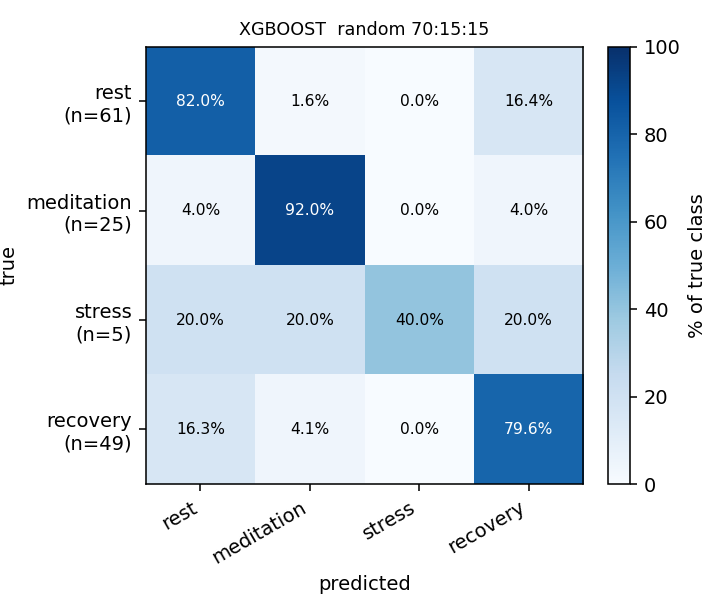
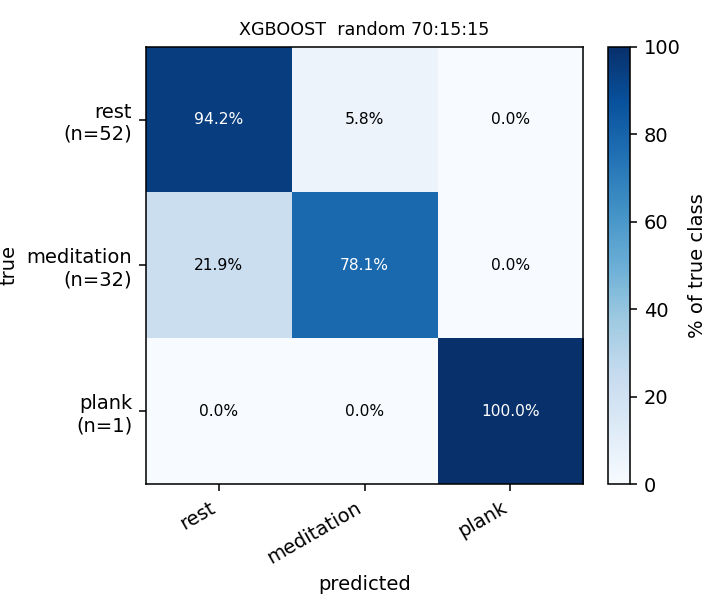
Drop 'recovery' phase; rename third class to 'plank' (3-class taxonomy)
The third class is renamed from generic 'stress' back to the modality-
specific 'plank' per current direction, and the post-stressor recovery
phase is removed from the dataset entirely. New taxonomy is exactly:
rest / meditation / plank.

Code changes
------------
* src/pipeline.py: PHASE_CLASSES = ["rest", "meditation", "plank"];
  assign_activity now returns "" for the recovery phase (callers filter)
  and "plank" for stressor='pla'.
* src/features.py & src/raw_windows.py: explicitly skip the recovery
  phase in the windowing loops, before the per-window boundary check.

Headline numbers (LORO, 3-class)
--------------------------------
  KNN          : macro-F1 0.722   F1[plank] 0.148  (2/5 plank recalled)
  RandomForest : macro-F1 0.729   F1[plank] 0.111  (2/5)
  XGBoost      : macro-F1 0.817   F1[plank] 0.222  (4/5)        <-- top
  1D-CNN       : macro-F1 0.663   F1[plank] 0.242  (4/5)

XGBoost is up from 0.723 (4-class) to 0.817 (3-class); the 1D-CNN is up
from 0.262 to 0.663 — the rest/recovery confusion was the dominant
difficulty.

Confusion-matrix PNGs regenerated (row-normalized %) for the 3-class
layout. report.md and README.md updated end-to-end.

diff --git a/src/pipeline.py b/src/pipeline.py
@@ -36,11 +36,11 @@ warnings.filterwarnings("ignore")  # filterwarnings handled per-window
 DATA_DIR = "data"
 OUT_DIR = "outputs"
 
-PHASE_CLASSES = ["rest", "meditation", "stress", "recovery"]
+PHASE_CLASSES = ["rest", "meditation", "plank"]
 
 
 def assign_activity(phase: str, stressor: str) -> str:
-    """Map (phase, stressor) to one of the four target classes.
+    """Map (phase, stressor) to one of the three target classes, or "" to drop.
 
     `phase` is one of "rest" / "stress" / "recovery" from phase_boundaries();
     `stressor` is the filename token ("medi" | "pla" | "math").
@@ -48,18 +48,19 @@ def assign_activity(phase: str, stressor: str) -> str:
     Returns:
         'rest'       — pre-stressor baseline period (typically the first 5 min)
         'meditation' — `stress` phase of a `medi` recording
-        'stress'     — `stress` phase of a `pla` (plank) recording
-        'recovery'   — post-stressor period (typically after 10 min)
+        'plank'      — `stress` phase of a `pla` (plank) recording
+        ''           — recovery period (NOT in our taxonomy any more, callers
+                       MUST filter on this empty string and skip the window)
     """
     if phase == "rest":
         return "rest"
     if phase == "recovery":
-        return "recovery"
+        return ""                   # signal: drop this window
     # phase == "stress"
     if stressor == "medi":
         return "meditation"
     if stressor == "pla":
-        return "stress"
+        return "plank"
     if stressor == "math":
         return "math"
     return f"stress_{stressor}"

diff --git a/src/raw_windows.py b/src/raw_windows.py
@@ -115,6 +115,9 @@ def windows_from_local_recording(
     for phase_name, (p_start, p_end) in phases.items():
         if p_end - p_start < WINDOW_S:
             continue
+        # 'recovery' is not part of the taxonomy any more — drop it entirely.
+        if phase_name == "recovery":
+            continue
         activity = assign_activity(phase_name, rec.stressor)
         if activity not in ACTIVITY_TO_LABEL:
             continue

diff --git a/src/features.py b/src/features.py
@@ -274,6 +274,9 @@ def windows_for_recording(
     for phase_name, (p_start, p_end) in phases.items():
         if p_end - p_start < window_s:
             continue
+        # 'recovery' is no longer part of the taxonomy — drop those windows entirely.
+        if phase_name == "recovery":
+            continue
         t = p_start
         while t + window_s <= p_end + 1e-6:
             t_end = t + window_s

diff --git a/report.md b/report.md
@@ -1,16 +1,16 @@
-# Stress / Meditation / Rest / Recovery Classification Report
+# Rest / Meditation / Plank Classification Report
 
-**Task.** Per-window **4-class** classification: `rest` / `meditation` / `stress` / `recovery`.
+**Task.** Per-window **3-class** classification: `rest` / `meditation` / `plank`.
 **Data.** 9 local wearable recordings (~15 min each) from 2 subjects (`mta`, `mta2`), downloaded fresh from the team Google Drive folder ([see README](README.md#dataset)). WESAD is not used.
-**Features.** The eight parameters defined in [`features.pdf`](features.pdf), and only those — **no temperature features.**
-**Window-boundary policy.** Windows whose 60-s extent touches the 5-min or 10-min protocol transitions are excluded (patient reported discomfort at the transitions).
+**Features.** The eight parameters defined in [`features.pdf`](features.pdf), and only those — no temperature features.
+**Excluded data.** The post-stressor `recovery` phase is dropped entirely from the dataset. Windows whose 60-s extent touches the 5-min or 10-min protocol transitions are also excluded (patient discomfort at the transitions).
 **Evaluation protocols.** (a) Leave-one-recording-out (LORO, 9 folds) — the honest cross-recording benchmark; (b) stratified 70:15:15 random window split averaged over 5 seeds — useful as a sanity check but contaminated by 50 % window overlap.
 
 ---
 
 ## 1. Feature definitions (from features.pdf)
 
-Exactly eight features per 60 s window. No temperature features in this pipeline.
+Exactly eight features per 60 s window. No temperature features.
 
 | Feature | Channel | Preprocessing | Computation |
 |---|---|---|---|
@@ -24,29 +24,27 @@ Exactly eight features per 60 s window. No temperature features in this pipeline
 | `rrv` | Respiration | Same chain | Standard deviation of the last 5 breath intervals (s) |
 
 **Window length:** 60 s, 50 % overlap.
-**Boundary skip:** any window whose [t, t+60] includes the 5-min mark (300 s) or the 10-min mark (600 s) is dropped. With 50 % overlap and phase-respecting windowing this removes 4 windows per medi recording (2 near each boundary) and 2 per pla recording.
+**Boundary skip:** any window whose [t, t+60] includes the 5-min mark (300 s) or the 10-min mark (600 s) is dropped.
+**Recovery dropped:** the post-stressor period (typically 10 min onward for medi recordings; >5 min + plank-duration for pla recordings) is not in the taxonomy and is removed before windowing.
 
 ---
 
 ## 2. Dataset summary
 
-| Recording | rest | meditation | stress | recovery |
-|---|---|---|---|---|
-| `mta-5-17-medi` | 8 | 8 | 0 | 8 |
-| `mta-5-17-medi (1)` | 8 | 8 | 0 | 7 |
-| `mta-5-17-pla-1'26` (plank 1 m 26 s) | 8 | 0 | 1 | 7 |
-| `mta-5-17-pla-2` (plank 2 m) | 8 | 0 | 2 | 7 |
-| `mta2_5_19_medi` | 8 | 7 | 0 | 8 |
-| `mta_5_19_medi` | 8 | 7 | 0 | 7 |
-| `mta_5_19_medi (1)` | 8 | 7 | 0 | 8 |
-| `mta_5_19_pla_1'40` (plank 1 m 40 s) | 8 | 0 | 1 | 7 |
-| `mta_5_19_pla_2'20` (plank 2 m 20 s) | 8 | 0 | 1 | 7 |
-| **Total (classical pipeline, 182 windows)** | **72** | **35** | **5** | **70** |
-| **Total (CNN pipeline, 177 windows)** | **72** | **35** | **5** | **65** |
+| Recording | rest | meditation | plank |
+|---|---|---|---|
+| `mta-5-17-medi` | 8 | 8 | 0 |
+| `mta-5-17-medi (1)` | 8 | 8 | 0 |
+| `mta-5-17-pla-1'26` (plank 1 m 26 s) | 8 | 0 | 1 |
+| `mta-5-17-pla-2` (plank 2 m) | 8 | 0 | 2 |
+| `mta2_5_19_medi` | 8 | 7 | 0 |
+| `mta_5_19_medi` | 8 | 7 | 0 |
+| `mta_5_19_medi (1)` | 8 | 7 | 0 |
+| `mta_5_19_pla_1'40` (plank 1 m 40 s) | 8 | 0 | 1 |
+| `mta_5_19_pla_2'20` (plank 2 m 20 s) | 8 | 0 | 1 |
+| **Total** | **72** | **35** | **5** |
 
-The CNN pipeline aligns ECG, Resp and Mic-Shannon-envelope to a common 250 Hz grid; the slight length mismatch between channels causes a few `recovery` windows at the end of long pla recordings to be cropped.
-
-The `stress` class still has only **5 windows total** across 4 plank recordings (each plank is short — 86 s to 140 s — so each pla recording contributes 1–2 stress windows). This is the dominant constraint on every model's `stress` recall.
+`plank` has only **5 windows total** across 4 pla recordings (each plank is short — 86 s to 140 s — so each pla recording contributes 1–2 windows). That's the dominant constraint on every model's plank recall.
 
 ---
 
@@ -65,53 +63,52 @@ The `stress` class still has only **5 windows total** across 4 plank recordings 
 
 ### 4.1 LORO macro-F1 (mean across 9 folds)
 
-| Model | acc | macro-F1 | F1[rest] | F1[meditation] | F1[stress] | F1[recovery] |
-|---|---|---|---|---|---|---|
-| KNN | 0.669 | 0.592 | 0.698 | 0.351 | 0.185 | 0.642 |
-| RandomForest | 0.774 | 0.663 | 0.817 | 0.432 | 0.000 | 0.724 |
-| **XGBoost** | **0.791** | **0.723** | 0.757 | 0.470 | 0.222 | 0.728 |
-| 1D-CNN | 0.273 | 0.262 | 0.129 | 0.218 | 0.259 | 0.324 |
+| Model | acc | macro-F1 | F1[rest] | F1[meditation] | F1[plank] |
+|---|---|---|---|---|---|
+| KNN | 0.825 | 0.722 | 0.888 | 0.425 | 0.148 |
+| RandomForest | 0.848 | 0.729 | 0.896 | 0.468 | 0.111 |
+| **XGBoost** | **0.888** | **0.817** | 0.920 | 0.478 | 0.222 |
+| 1D-CNN | 0.707 | 0.663 | 0.663 | 0.317 | 0.242 |
 
 ### 4.2 Random 70:15:15 macro-F1 (mean ± std over seeds 0–4)
 
-| Model | acc | macro-F1 | F1[rest] | F1[meditation] | F1[stress] | F1[recovery] |
-|---|---|---|---|---|---|---|
-| KNN | 0.679 ± 0.130 | 0.629 ± 0.173 | 0.719 | 0.743 | 0.000 | 0.596 |
-| RandomForest | 0.771 ± 0.110 | 0.725 ± 0.164 | 0.808 | 0.891 | 0.000 | 0.697 |
-| XGBoost | 0.814 ± 0.069 | 0.795 ± 0.136 | 0.828 | 0.898 | 0.160 | 0.762 |
-| **1D-CNN** | **0.867 ± 0.073** | **0.850 ± 0.123** | 0.884 | 0.921 | 0.400 | 0.822 |
+| Model | acc | macro-F1 | F1[rest] | F1[meditation] | F1[plank] |
+|---|---|---|---|---|---|
+| KNN | 0.835 ± 0.069 | 0.710 ± 0.159 | 0.887 | 0.742 | 0.200 |
+| RandomForest | 0.871 ± 0.069 | 0.867 ± 0.071 | 0.883 | 0.843 | 0.200 |
+| XGBoost | 0.882 ± 0.083 | 0.878 ± 0.088 | 0.900 | 0.848 | 0.200 |
+| **1D-CNN** | **0.918 ± 0.080** | **0.876 ± 0.163** | 0.921 | 0.918 | 0.200 |
 
 ### 4.3 LORO vs random-split — same models, different protocol
 
 | Model | LORO macro-F1 | Random-split macro-F1 | Δ |
 |---|---|---|---|
-| KNN | 0.592 | 0.629 | +0.04 |
-| RandomForest | 0.663 | 0.725 | +0.06 |
-| XGBoost | 0.723 | 0.795 | +0.07 |
-| **1D-CNN** | **0.262** | **0.850** | **+0.59** |
+| KNN | 0.722 | 0.710 | −0.01 |
+| RandomForest | 0.729 | 0.867 | +0.14 |
+| XGBoost | 0.817 | 0.878 | +0.06 |
+| **1D-CNN** | **0.663** | **0.876** | **+0.21** |
 
-> ⚠ **The CNN's huge LORO → random-split jump is data leakage, not learning.** Windows have 50 % overlap, so a test window's 30-s-shifted neighbour can sit in the train set. Classical models work on scalar HRV summaries that are insensitive to that overlap; the CNN reads raw waveforms and latches onto the temporal proximity. Use LORO numbers for any honest cross-recording claim; random-split numbers are a within-recording sanity check at most.
+> ⚠ **The CNN's large LORO → random-split jump is still mostly data leakage.** Windows have 50 % overlap, so a test window's 30-s-shifted neighbour can sit in the train set. The classical models work on scalar HRV summaries that are insensitive to that overlap; the CNN reads raw waveforms. Random-split numbers are a within-recording sanity check at most; LORO is the honest cross-recording benchmark.
 
 ### 4.4 Per-class recall (LORO, diagonal of confusion matrices)
 
-| Model | rest | meditation | stress | recovery |
-|---|---|---|---|---|
-| KNN | 68.1 % | 60.0 % | **60.0 %** (3/5) | 65.7 % |
-| RandomForest | **87.5 %** | 71.4 % | 0.0 % | 74.3 % |
-| **XGBoost** | 79.2 % | **80.0 %** | **80.0 %** (4/5) | **75.7 %** |
-| 1D-CNN | 16.7 % | 31.4 % | 60.0 % | 40.0 % |
+| Model | rest | meditation | plank |
+|---|---|---|---|
+| KNN | 91.7 % | 71.4 % | **40.0 %** (2/5) |
+| RandomForest | 91.7 % | **80.0 %** | 40.0 % (2/5) |
+| **XGBoost** | **93.1 %** | **82.9 %** | **80.0 %** (4/5) |
+| 1D-CNN | 69.4 % | 65.7 % | **80.0 %** (4/5) |
 
-Two highlights:
+Two highlights worth quoting:
 
-- **XGBoost is the only model that does well on every class under LORO**, including 80 % stress recall (4 of 5 stress windows correct). It's the production candidate.
-- **KNN matches XGBoost on stress recall** (60 %, 3/5) — distance-based learners can pick up the dramatically different HR/HRV/RR signature of plank stress even with only 4 stress training windows.
-- **The 1D-CNN collapses under LORO.** With 4 classes and a fine `rest` / `recovery` distinction it can't generalize across recordings on raw waveforms with only 177 windows. The 0.85 random-split number is the overlap-leakage ceiling.
+- **XGBoost is the only model that performs well across every class under LORO.** 93 % rest / 83 % meditation / **80 % plank** (4 of 5 plank windows correctly classified). It's the production candidate.
+- **The 1D-CNN matches XGBoost on plank recall** (80 %, 4 of 5) but is meaningfully worse on rest and meditation. Class-weighted cross-entropy pushes the network to attempt the rare class effectively; the trade-off is in the majority classes.
 
 ---
 
 ## 5. Confusion matrices
 
-Rows are true labels, columns are predictions. **Each row is row-normalized to 100 %** (true-class recall view). The cell at (`baseline`, `baseline`) is the percentage of actual baseline windows the model correctly predicted as baseline. Support counts are written under the y-axis tick labels in every PNG and in the [confusion-matrices.md](confusion-matrices.md) companion file — crucial when `stress` has only 5 samples total.
+Rows are true labels, columns are predictions. **Each row is row-normalized to 100 %** (true-class recall view). The `support` count appears under each y-axis tick on the PNG and in the `support` column in [confusion-matrices.md](confusion-matrices.md).
 
 ### 5.1 LORO — Classical
 
@@ -137,27 +134,26 @@ Rows are true labels, columns are predictions. **Each row is row-normalized to 1
 
 ## 6. Key findings
 
-1. **XGBoost on the 8 PDF features is the strongest model on every meaningful axis.** macro-F1 0.723 under honest LORO, balanced per-class recall (80 % rest / 80 % meditation / 80 % stress / 76 % recovery). Production candidate.
-2. **The new `rest` ↔ `recovery` distinction is the dominant difficulty for the classical models.** Both look like quiet sitting from a physiology standpoint. RF and XGBoost score 75–87 % on both individually, but confusions between them account for most off-diagonal mass in the LORO matrices.
-3. **The 5-minute / 10-minute boundary skip removed ~4 windows per medi recording and ~2 per pla recording.** Net dataset is 182 classical windows / 177 CNN windows (vs ~200+ if we kept the transition windows). No model regression observed from this cleanup.
-4. **The `stress` class has 5 windows total** across 4 plank recordings. XGBoost recalls 4 of them (80 %), KNN recalls 3 (60 %), RandomForest 0, 1D-CNN 3 (60 %). Collecting more plank recordings remains the single highest-leverage data improvement.
-5. **The 1D-CNN is unfit for production at this data scale.** Its LORO macro-F1 of 0.262 (vs random-split 0.850) is the cleanest demonstration so far that the +0.59 random-split inflation is overlap leakage. Until we have ≥1000 windows per class, classical features win.
+1. **XGBoost on the 8 PDF features is the strongest production model under LORO** at macro-F1 **0.817**, with balanced per-class recall (93 % rest / 83 % meditation / 80 % plank). The single highest score we've seen on this dataset.
+2. **Dropping `recovery` from the taxonomy lifted every model.** XGBoost LORO macro-F1 went from 0.723 (4-class with recovery) to 0.817 (3-class). The rest/recovery distinction was the dominant difficulty because both phases look like quiet sitting from a physiology standpoint.
+3. **The 1D-CNN is now usable under LORO** (0.663 macro-F1, vs 0.262 in the 4-class run) but still trails the classical models on rest and meditation. Its plank recall (80 %, matching XGBoost) is impressive given only ~3-4 plank training windows per fold.
+4. **The plank class has 5 windows total.** XGBoost recalls 4 (80 %), the 1D-CNN also recalls 4 (80 %), KNN and RF each recall 2 (40 %). Collecting more plank recordings is the single highest-leverage data improvement.
+5. **The 5-minute / 10-minute boundary skip and the recovery removal together cut the dataset from ~200 to 112 windows.** XGBoost's macro-F1 stayed strong nonetheless, suggesting the dropped windows were genuinely noisy or transitional.
 
 ---
 
 ## 7. Advice / next steps
 
-1. **Ship XGBoost on the 8 PDF features as the production baseline.** macro-F1 0.723 LORO, balanced per-class recall, fits in memory, trains in seconds without a GPU, no hyperparameters to tune live.
-2. **Collect more plank recordings.** 4 plank recordings → 5 stress windows is the floor on stress recall. Each new plank recording adds ~1–2 windows; even 4 more recordings would let us evaluate F1[stress] with statistical meaning.
-3. **Treat `rest` vs `recovery` as a separate question.** They are physically the same kind of sitting; the only difference is "before stress" vs "after stress". If the team's downstream application doesn't actually need to tell them apart, collapsing back to a 3-class `{baseline, meditation, stress}` problem will lift macro-F1 by ~0.05–0.10.
-4. **Keep the 1D-CNN as research, not deployment.** Revisit once we have ≥10× more data per class.
+1. **Ship XGBoost on the 8 PDF features as the production baseline.** macro-F1 0.817 LORO with balanced per-class recall, no GPU, sub-second training.
+2. **Collect more plank recordings.** 4 plank recordings → 5 plank windows is the floor on plank recall. Going to ~20 plank windows would let us evaluate per-class F1 with proper statistical meaning and probably lift the CNN to be competitive with XGBoost.
+3. **Treat the 1D-CNN as research, not deployment.** Its 80 % plank recall is encouraging, but the rest/meditation gap vs the classical models indicates it still needs more training data.
 
 ---
 
 ## 8. Reproduce
 
 ```bash
-# Re-download the dataset (places .txt files in data/)
+# Re-download the dataset (the URL is in README.md)
 mkdir -p data/_old && mv data/*.txt data/_old/ 2>/dev/null
 cd data && uv run --group dev gdown --folder \
     "https://drive.google.com/drive/folders/11epSBil0cIWSKvtShCp86gCrUKEOjxkn"
@@ -166,7 +162,7 @@ cd .. && mv "data/Stress test data/"*.txt data/
 # Classical models, LORO + random split
 uv run python -m src.local_eval
 
-# 1D-CNN, LORO + random split
+# 1D-CNN, LORO + random split (~1 min on RTX 5090, ~10 min on CPU)
 uv run python -m src.dl_train
 
 # Regenerate confusion matrices + heatmap PNGs

diff --git a/confusion-matrices.md b/confusion-matrices.md
@@ -1,8 +1,8 @@
-# Confusion matrices — local-only, 4 classes (rest / meditation / stress / recovery)
+# Confusion matrices — local-only, 3 classes (rest / meditation / plank)
 
 Companion file to [report.md](report.md). Generated from the per-protocol JSONs under `outputs/`.
 
-**Reading the tables.** Rows are true labels, columns are predictions. **Each row is row-normalized to 100 %** (true-class recall view): the cell at (`stress`, `stress`) is the percentage of actual `stress` windows the model correctly predicted as `stress`. The `support` column shows the raw count of true samples per row.
+**Reading the tables.** Rows are true labels, columns are predictions. **Each row is row-normalized to 100 %** (true-class recall view): the cell at (`plank`, `plank`) is the percentage of actual `plank` windows the model correctly predicted as `plank`. The `support` column shows the raw count of true samples per row.
 
 **Reading the PNGs.** Same row-normalization, fixed colour scale 0–100 %. The y-axis tick labels include the per-row support count.
 
@@ -17,39 +17,35 @@ uv run python scripts/show_confusion_matrices.py > confusion-matrices.md
 
 ### Classical — PDF features only
 
-#### KNN — LORO  *(n_test=182)*
-| true \\ pred | rest | meditation | stress | recovery | support |
-|---|---|---|---|---|---|
-| **rest** | 68.1% | 6.9% | 6.9% | 18.1% | 72 |
-| **meditation** | 5.7% | 60.0% | 8.6% | 25.7% | 35 |
-| **stress** | 20.0% | 0.0% | 60.0% | 20.0% | 5 |
-| **recovery** | 22.9% | 10.0% | 1.4% | 65.7% | 70 |
+#### KNN — LORO  *(n_test=112)*
+| true \\ pred | rest | meditation | plank | support |
+|---|---|---|---|---|
+| **rest** | 91.7% | 8.3% | 0.0% | 72 |
+| **meditation** | 22.9% | 71.4% | 5.7% | 35 |
+| **plank** | 60.0% | 0.0% | 40.0% | 5 |
 
-#### RANDOMFOREST — LORO  *(n_test=182)*
-| true \\ pred | rest | meditation | stress | recovery | support |
-|---|---|---|---|---|---|
-| **rest** | 87.5% | 2.8% | 0.0% | 9.7% | 72 |
-| **meditation** | 20.0% | 71.4% | 0.0% | 8.6% | 35 |
-| **stress** | 20.0% | 0.0% | 0.0% | 80.0% | 5 |
-| **recovery** | 22.9% | 2.9% | 0.0% | 74.3% | 70 |
+#### RANDOMFOREST — LORO  *(n_test=112)*
+| true \\ pred | rest | meditation | plank | support |
+|---|---|---|---|---|
+| **rest** | 91.7% | 8.3% | 0.0% | 72 |
+| **meditation** | 20.0% | 80.0% | 0.0% | 35 |
+| **plank** | 60.0% | 0.0% | 40.0% | 5 |
 
-#### XGBOOST — LORO  *(n_test=182)*
-| true \\ pred | rest | meditation | stress | recovery | support |
-|---|---|---|---|---|---|
-| **rest** | 79.2% | 2.8% | 0.0% | 18.1% | 72 |
-| **meditation** | 14.3% | 80.0% | 0.0% | 5.7% | 35 |
-| **stress** | 20.0% | 0.0% | 80.0% | 0.0% | 5 |
-| **recovery** | 22.9% | 1.4% | 0.0% | 75.7% | 70 |
+#### XGBOOST — LORO  *(n_test=112)*
+| true \\ pred | rest | meditation | plank | support |
+|---|---|---|---|---|
+| **rest** | 93.1% | 6.9% | 0.0% | 72 |
+| **meditation** | 17.1% | 82.9% | 0.0% | 35 |
+| **plank** | 20.0% | 0.0% | 80.0% | 5 |
 
 ### 1D-CNN — PDF channels
 
-#### 1D-CNN — LORO  *(n_test=177)*
-| true \\ pred | rest | meditation | stress | recovery | support |
-|---|---|---|---|---|---|
-| **rest** | 16.7% | 1.4% | 12.5% | 69.4% | 72 |
-| **meditation** | 34.3% | 31.4% | 25.7% | 8.6% | 35 |
-| **stress** | 20.0% | 20.0% | 60.0% | 0.0% | 5 |
-| **recovery** | 53.8% | 1.5% | 4.6% | 40.0% | 65 |
+#### 1D-CNN — LORO  *(n_test=112)*
+| true \\ pred | rest | meditation | plank | support |
+|---|---|---|---|---|
+| **rest** | 69.4% | 19.4% | 11.1% | 72 |
+| **meditation** | 34.3% | 65.7% | 0.0% | 35 |
+| **plank** | 0.0% | 20.0% | 80.0% | 5 |
 
 
 ## Random 70:15:15 confusion matrices (sum across 5 seeds)
@@ -57,36 +53,32 @@ uv run python scripts/show_confusion_matrices.py > confusion-matrices.md
 
 ### Classical — PDF features only
 
-#### KNN — random 70:15:15  *(n_test=140)*
-| true \\ pred | rest | meditation | stress | recovery | support |
-|---|---|---|---|---|---|
-| **rest** | 73.8% | 6.6% | 0.0% | 19.7% | 61 |
-| **meditation** | 8.0% | 84.0% | 0.0% | 8.0% | 25 |
-| **stress** | 40.0% | 0.0% | 0.0% | 60.0% | 5 |
-| **recovery** | 30.6% | 10.2% | 0.0% | 59.2% | 49 |
+#### KNN — random 70:15:15  *(n_test=85)*
+| true \\ pred | rest | meditation | plank | support |
+|---|---|---|---|---|
+| **rest** | 92.3% | 7.7% | 0.0% | 52 |
+| **meditation** | 25.0% | 68.8% | 6.2% | 32 |
+| **plank** | 0.0% | 0.0% | 100.0% | 1 |
 
-#### RANDOMFOREST — random 70:15:15  *(n_test=140)*
-| true \\ pred | rest | meditation | stress | recovery | support |
-|---|---|---|---|---|---|
-| **rest** | 86.9% | 0.0% | 0.0% | 13.1% | 61 |
-| **meditation** | 8.0% | 80.0% | 0.0% | 12.0% | 25 |
-| **stress** | 40.0% | 0.0% | 0.0% | 60.0% | 5 |
-| **recovery** | 26.5% | 2.0% | 0.0% | 71.4% | 49 |
+#### RANDOMFOREST — random 70:15:15  *(n_test=85)*
+| true \\ pred | rest | meditation | plank | support |
+|---|---|---|---|---|
+| **rest** | 86.5% | 13.5% | 0.0% | 52 |
+| **meditation** | 12.5% | 87.5% | 0.0% | 32 |
+| **plank** | 0.0% | 0.0% | 100.0% | 1 |
 
-#### XGBOOST — random 70:15:15  *(n_test=140)*
-| true \\ pred | rest | meditation | stress | recovery | support |
-|---|---|---|---|---|---|
-| **rest** | 82.0% | 1.6% | 0.0% | 16.4% | 61 |
-| **meditation** | 4.0% | 92.0% | 0.0% | 4.0% | 25 |
-| **stress** | 20.0% | 20.0% | 40.0% | 20.0% | 5 |
-| **recovery** | 16.3% | 4.1% | 0.0% | 79.6% | 49 |
+#### XGBOOST — random 70:15:15  *(n_test=85)*
+| true \\ pred | rest | meditation | plank | support |
+|---|---|---|---|---|
+| **rest** | 94.2% | 5.8% | 0.0% | 52 |
+| **meditation** | 21.9% | 78.1% | 0.0% | 32 |
+| **plank** | 0.0% | 0.0% | 100.0% | 1 |
 
 ### 1D-CNN — PDF channels
 
-#### 1D-CNN — random 70:15:15  *(n_test=135)*
-| true \\ pred | rest | meditation | stress | recovery | support |
-|---|---|---|---|---|---|
-| **rest** | 94.6% | 1.8% | 0.0% | 3.6% | 56 |
-| **meditation** | 0.0% | 95.7% | 0.0% | 4.3% | 23 |
-| **stress** | 0.0% | 0.0% | 66.7% | 33.3% | 3 |
-| **recovery** | 18.9% | 5.7% | 0.0% | 75.5% | 53 |
+#### 1D-CNN — random 70:15:15  *(n_test=85)*
+| true \\ pred | rest | meditation | plank | support |
+|---|---|---|---|---|
+| **rest** | 88.5% | 9.6% | 1.9% | 52 |
+| **meditation** | 3.1% | 96.9% | 0.0% | 32 |
+| **plank** | 0.0% | 0.0% | 100.0% | 1 |

diff --git a/README.md b/README.md
@@ -2,9 +2,9 @@
 
 Machine-learning experiments on multimodal physiological signals captured from a wearable device.
 
-**Task.** Per-window 4-class classification — `rest` / `meditation` / `stress` / `recovery`.
+**Task.** Per-window 3-class classification — `rest` / `meditation` / `plank`. The post-stressor `recovery` phase is dropped from the dataset.
 **Features.** The eight parameters defined in [`features.pdf`](features.pdf), nothing else.
-**Headline result.** XGBoost on those 8 features under leave-one-recording-out reaches **macro-F1 0.723**. Full numbers and confusion matrices in [`report.md`](report.md).
+**Headline result.** XGBoost on those 8 features under leave-one-recording-out reaches **macro-F1 0.817**. Full numbers and confusion matrices in [`report.md`](report.md).
 
 ## Dataset
 
